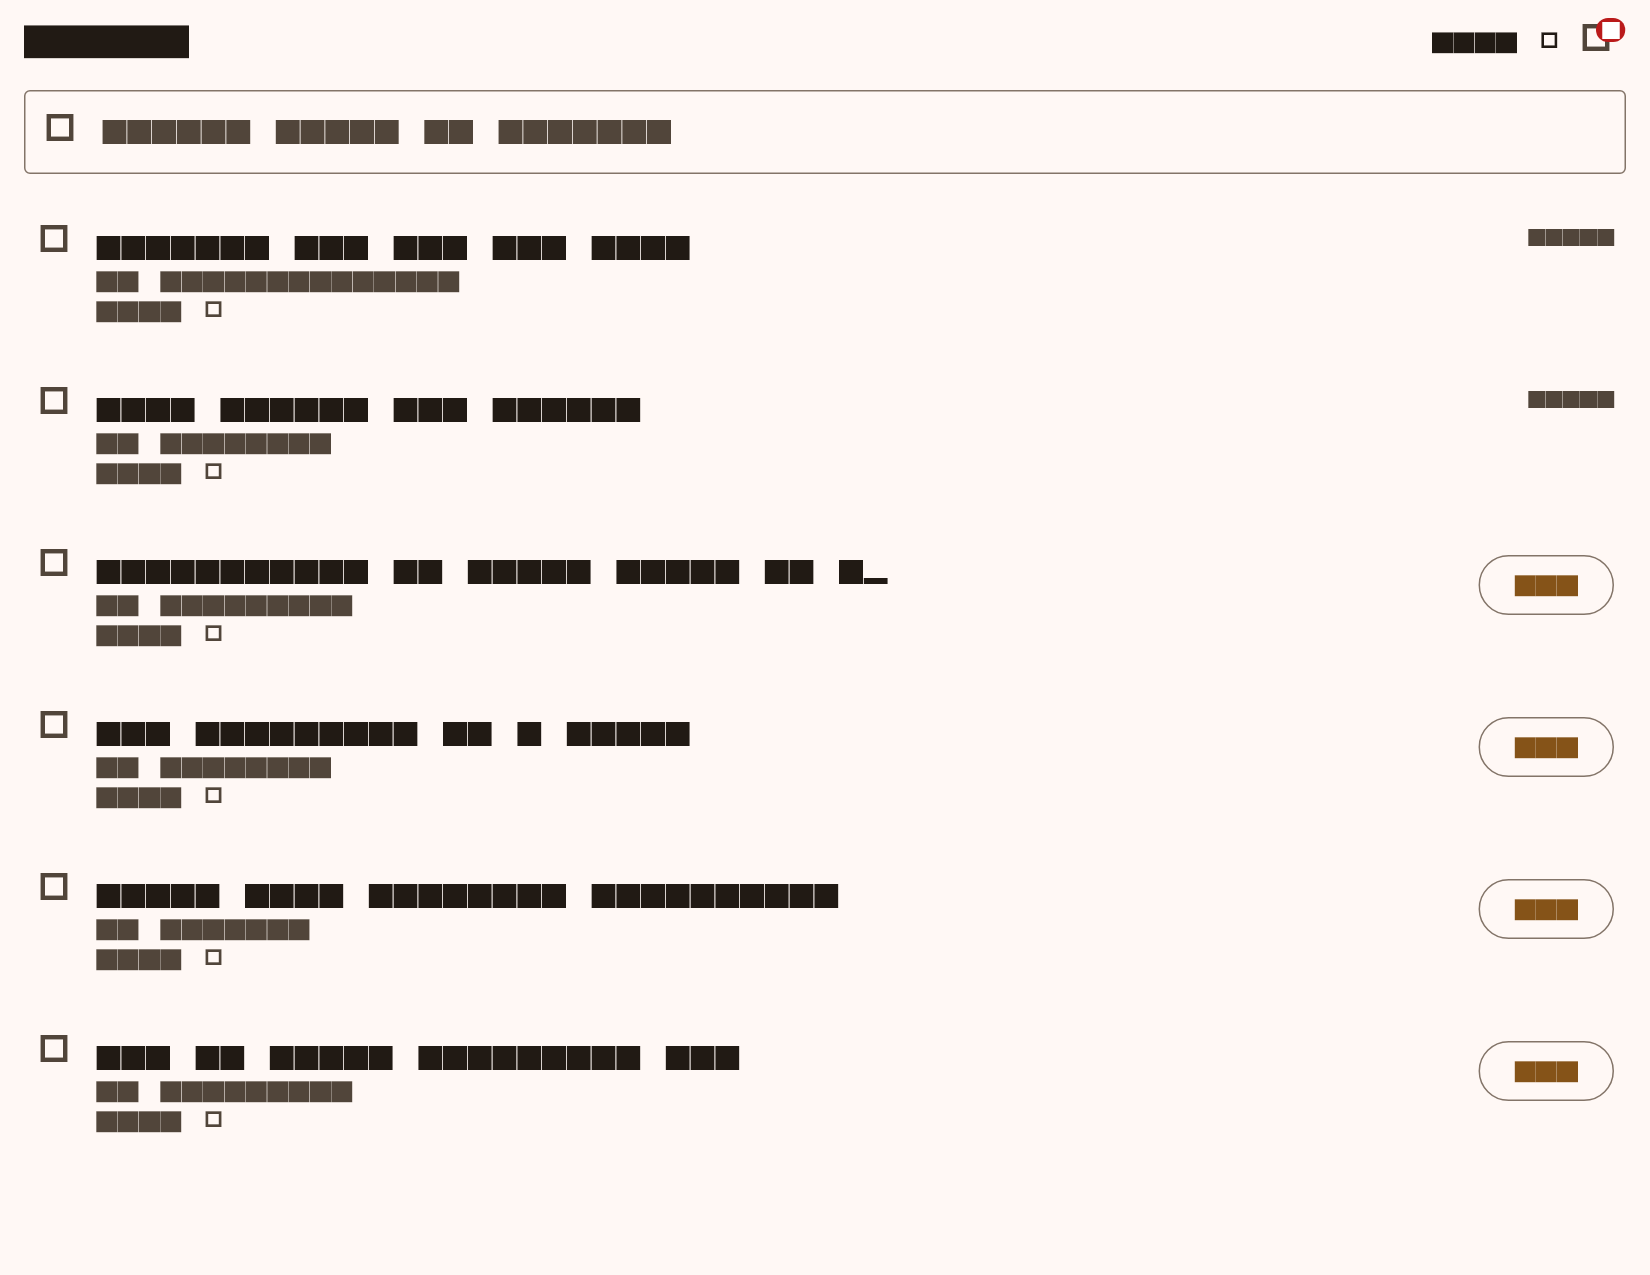
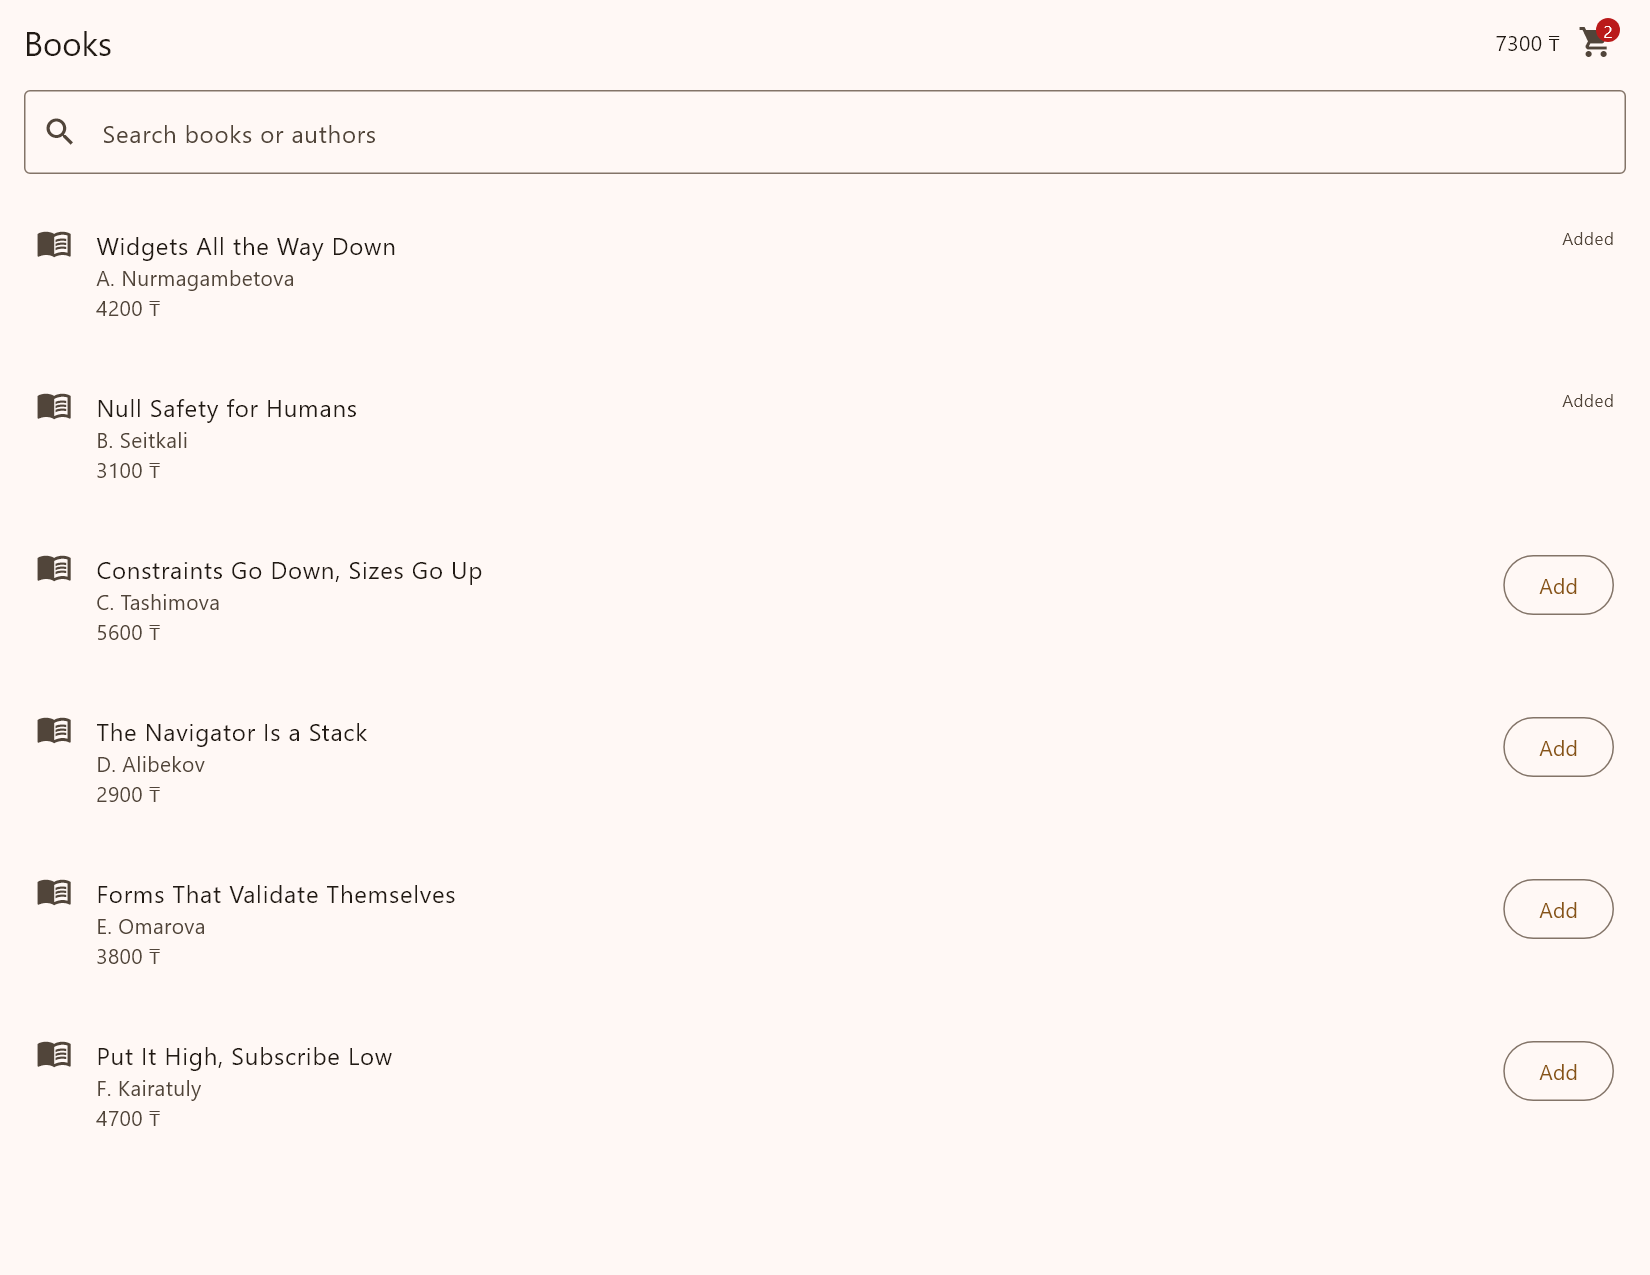
Render evidence with readable fonts

diff --git a/test/evidence_test.dart b/test/evidence_test.dart
@@ -1,3 +1,5 @@
+import 'dart:typed_data';
+import 'package:flutter/services.dart';
 import 'dart:io';
 import 'dart:ui' as ui;
 import 'package:flutter/material.dart';
@@ -71,6 +73,20 @@ void main() {
     tester.view.devicePixelRatio = 1;
     addTearDown(tester.view.resetPhysicalSize);
     addTearDown(tester.view.resetDevicePixelRatio);
+    await tester.runAsync(() async {
+      final textFont = FontLoader('Roboto')..addFont(
+        File(
+          'C:/Windows/Fonts/segoeui.ttf',
+        ).readAsBytes().then((b) => ByteData.view(b.buffer)),
+      );
+      final icons = FontLoader('MaterialIcons')..addFont(
+        File(
+          'C:/dev/flutter/bin/cache/artifacts/material_fonts/MaterialIcons-Regular.otf',
+        ).readAsBytes().then((b) => ByteData.view(b.buffer)),
+      );
+      await textFont.load();
+      await icons.load();
+    });
     final key = GlobalKey();
     final cart =
         Cart()
